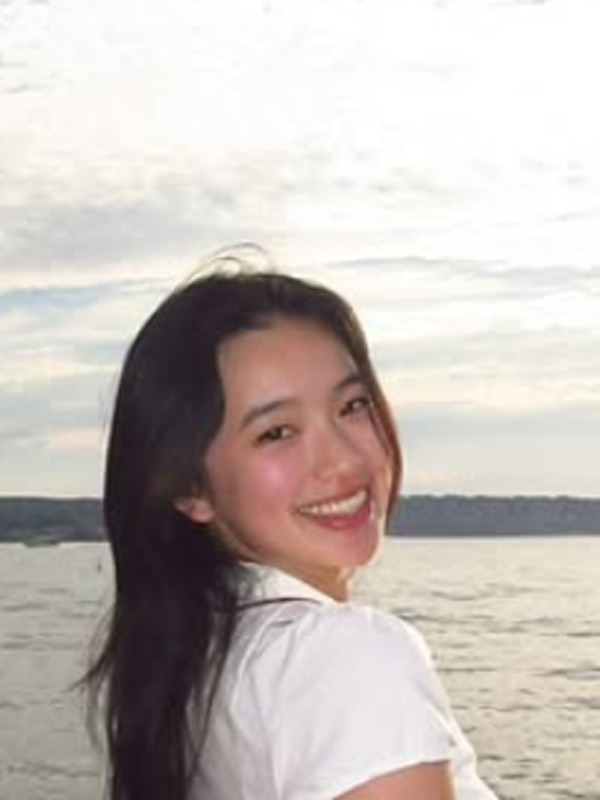
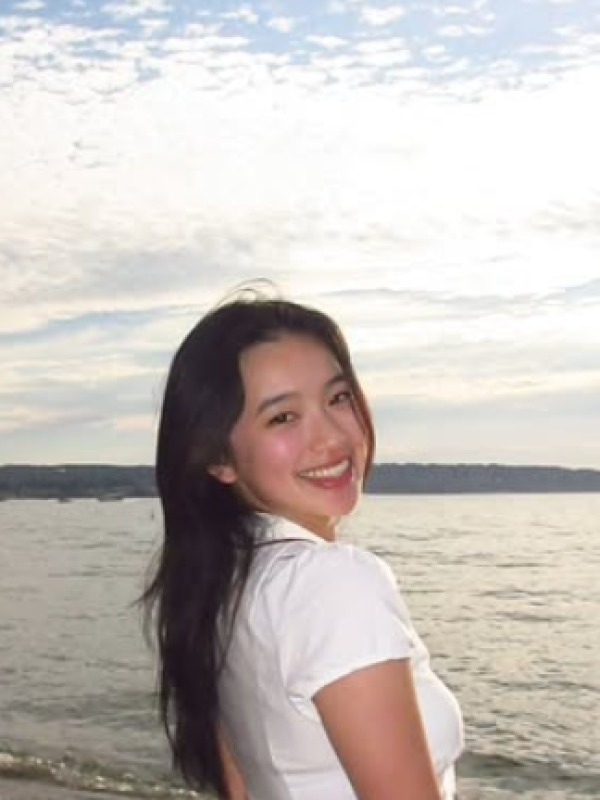
stack photos tbimproved

diff --git a/src/content.config.ts b/src/content.config.ts
@@ -29,11 +29,16 @@ const execs = defineCollection({
     schema: z.object({
         role: z.string(),
         name: z.string(),
-        // img should be normalized to one std, web-friendly & highly compatible filetype. not required
+        // primary fallback; prefer imgs when present
         img: z.string().default('/assets/execs/placeholder.jpg'),
+        imgs: z.array(
+            z.object({
+                path: z.string(),
+                alt: z.string().optional(),
+            })
+        ).optional(),
         degree: z.string(),
         description: z.string()
-
     })
 });
 
